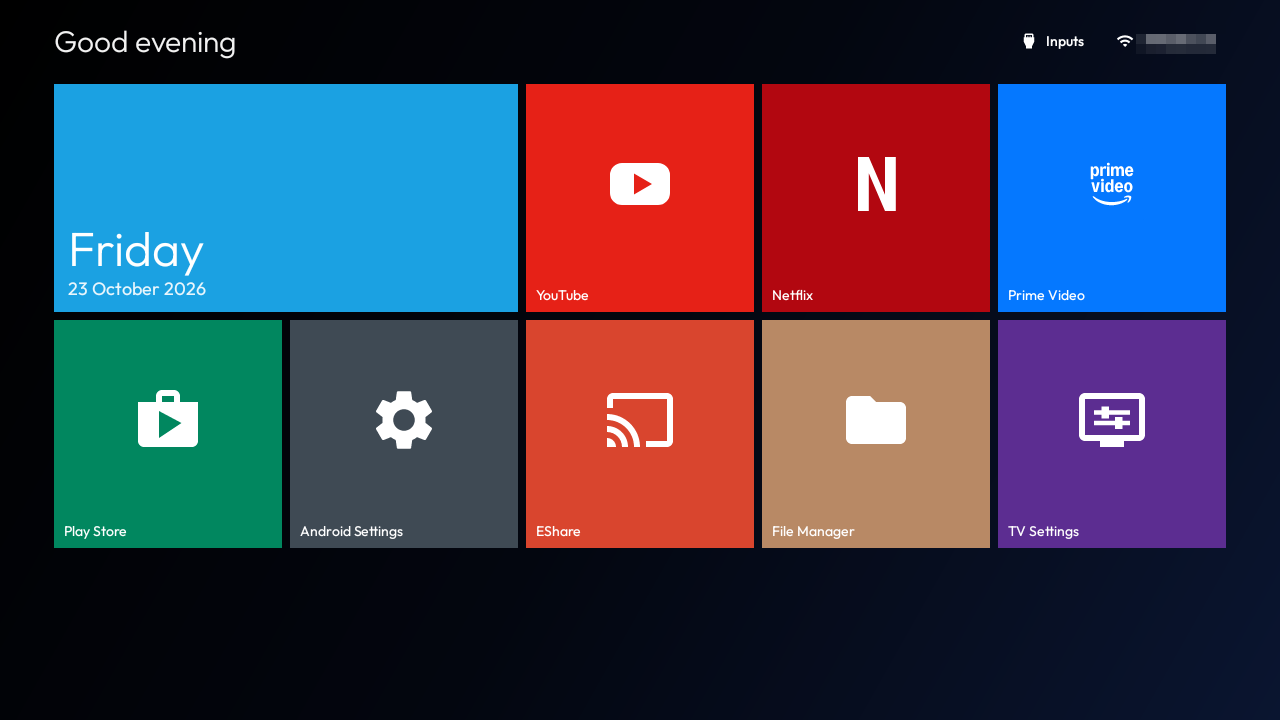
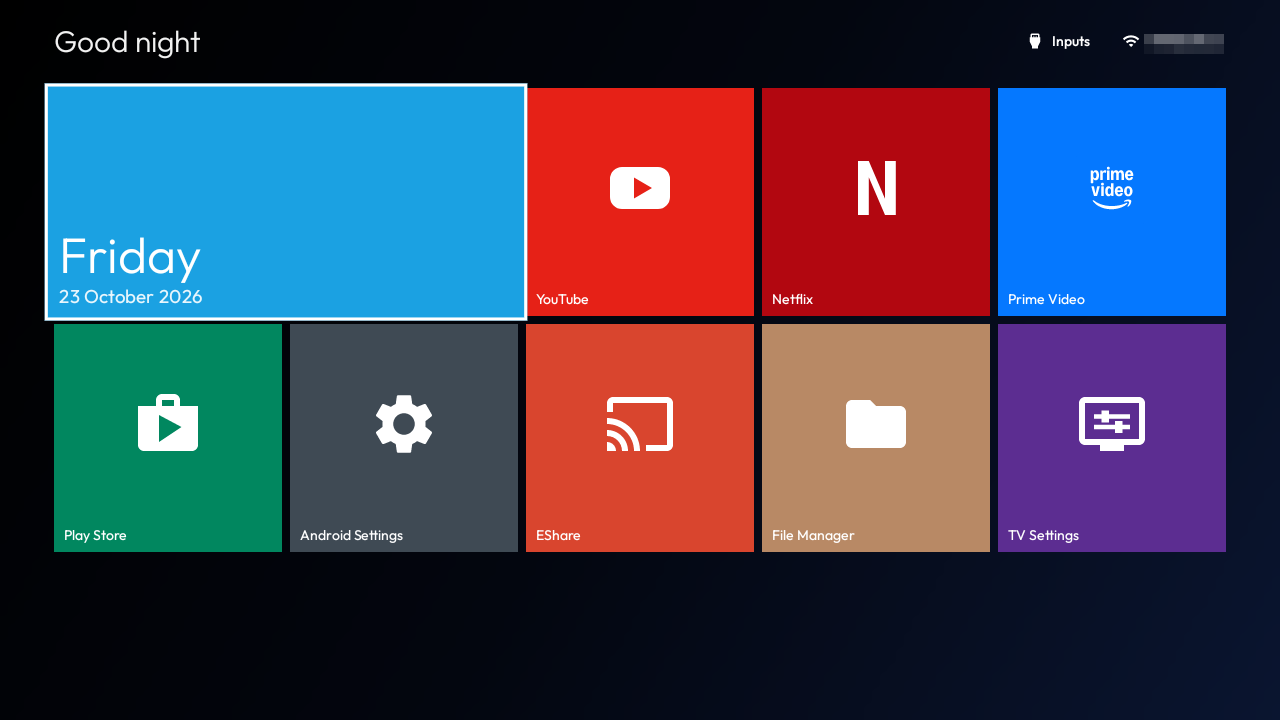
Update screenshots: full focus outline and 12-hour clock
The old ones showed the clock tile's outline clipped on the left and a
24-hour clock, both fixed before the first commit.

diff --git a/README.md b/README.md
@@ -10,8 +10,6 @@ from the remote.
 |---|---|
 | ![Clock tile flipped](docs/clock-flipped.png) | ![Full-screen clock](docs/full-screen-clock.png) |
 
-(The screenshots were taken before the clock switched to 12-hour time with AM/PM.)
-
 ## Features
 
 - **Tiles in four sizes**: small, medium, wide and large, packed Windows Phone style on a 10-unit grid (5 medium
